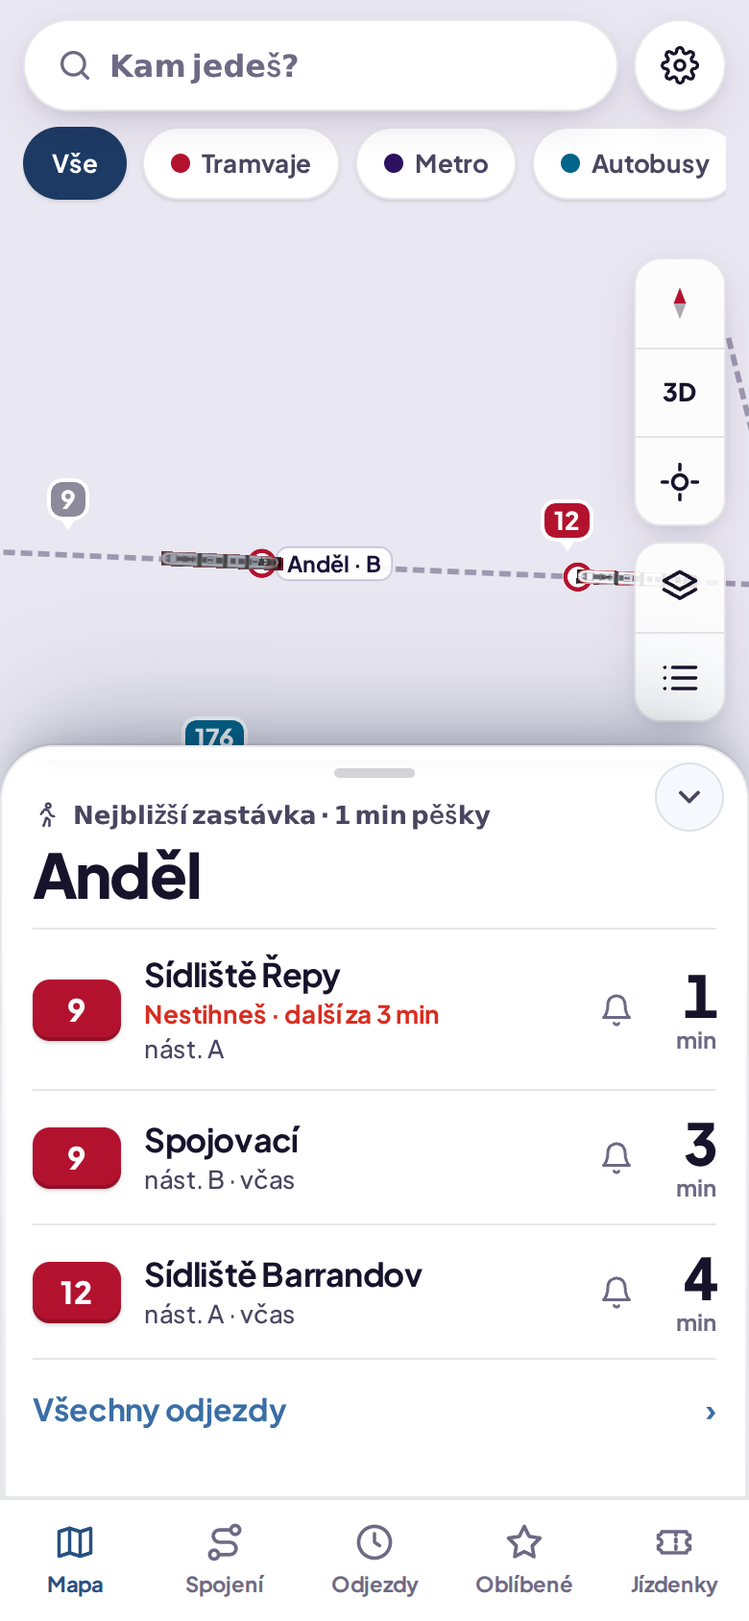
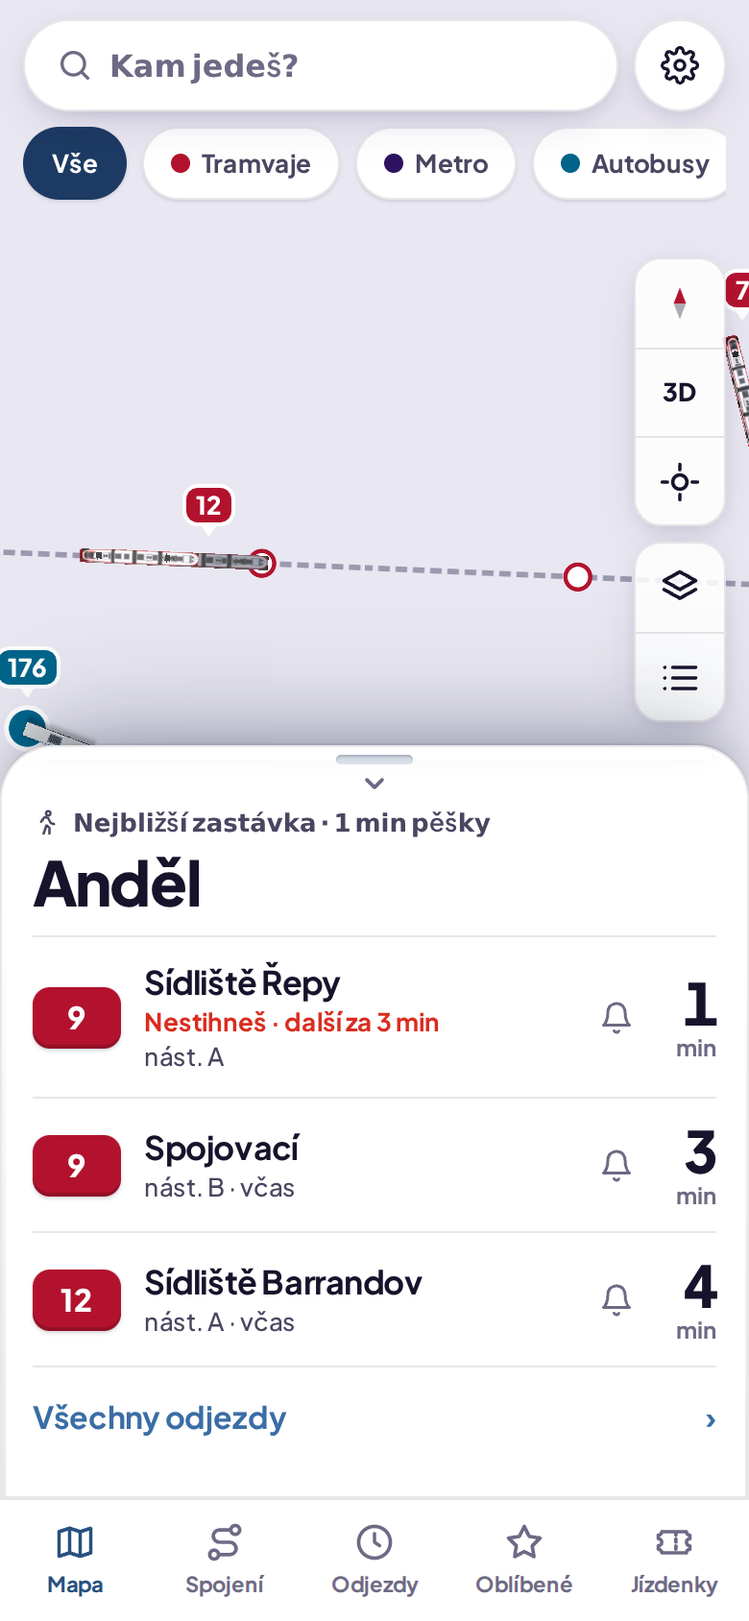
v0.11.0

diff --git a/src/server/push.ts b/src/server/push.ts
@@ -39,6 +39,7 @@ export const WatchInput = z.object({
   subscription: z.object({ endpoint: z.string().url().max(800), keys: z.object({ p256dh: b64u.min(80).max(120), auth: b64u.min(16).max(40) }) }),
   stop: z.string().min(1).max(80), stopName: z.string().min(1).max(80),
   line: z.string().regex(/^[A-Za-z0-9]{1,6}$/), headsign: z.string().max(80).nullable(),
+  mode: z.enum(['tram', 'metro', 'bus', 'trolleybus', 'train', 'ferry', 'funicular', 'other']).default('bus'),
   scheduledAt: z.string().datetime({ offset: true }), leadMin: z.union([z.literal(2), z.literal(5), z.literal(10)]),
   lang: z.enum(['cs', 'en']).default('cs'),
 });
@@ -81,25 +82,51 @@ export function verifyQstashSignature(jwt: string | null, rawBody: string, keys:
 }
 
 // ---------- texty upozornění ----------
-export function pushMessage(w: Watch, d: Departure | null, now: number, kind: 'arrival' | 'canceled'): { title: string; body: string; url: string; tag: string } {
+const EMOJI: Record<string, string> = { tram: '🚋', metro: '🚇', bus: '🚌', trolleybus: '🚎', train: '🚆', ferry: '⛴', funicular: '🚠', other: '🚏' };
+const clock = (ms: number) => new Intl.DateTimeFormat('cs-CZ', { timeZone: 'Europe/Prague', hour: '2-digit', minute: '2-digit' }).format(ms);
+export interface PushMessage { title: string; body: string; url: string; tag: string; actions: { action: string; title: string; url: string }[] }
+
+/**
+ * Upozornění: to hlavní v nadpisu (telefon ho zobrazí tučně) – druh dopravy, linka, za kolik minut, kam;
+ * 2. řádek kde, 3. řádek stav a co dělat. Zrušený spoj nabídne další spoj stejné linky.
+ */
+export function pushMessage(w: Watch, d: Departure | null, now: number, kind: 'arrival' | 'canceled', next: Departure | null = null): PushMessage {
   const en = w.lang === 'en';
-  const title = `${w.line} → ${w.headsign ?? w.stopName}`;
-  const url = `/odjezdy?zastavka=${encodeURIComponent(w.stop)}`;
-  if (kind === 'canceled') return { title, body: en ? `Cancelled — this ${w.line} won’t leave ${w.stopName}.` : `Spoj je zrušený – z ${w.stopName} nepojede.`, url, tag: `watch-${w.id}` };
+  const mode = d?.route.mode ?? w.mode ?? 'bus';
+  const emoji = EMOJI[mode] ?? EMOJI.other!;
+  const dest = w.headsign ?? w.stopName;
+  const deps = `/odjezdy?zastavka=${encodeURIComponent(w.stop)}`;
+  const line = `/linka?l=${encodeURIComponent(w.line)}&m=${encodeURIComponent(mode)}`;
+  const tag = `watch-${w.id}`;
+  if (kind === 'canceled') {
+    const at = clock(Date.parse(w.scheduledAt));
+    const nm = next ? Math.max(0, Math.round((Date.parse(next.predictedAt ?? next.scheduledAt ?? '') - now) / 60_000)) : null;
+    return {
+      title: en ? `❌ ${w.line} · ${dest} is cancelled` : `❌ ${w.line} · ${dest} nepojede`,
+      body: (en ? `The ${at} departure is cancelled.` : `Spoj v ${at} je zrušený.`) + (nm !== null ? (en ? `\n➡ Next ${w.line} in ${nm} min.` : `\n➡ Další ${w.line} jede za ${nm} min.`) : ''),
+      url: deps, tag, actions: [{ action: 'deps', title: en ? 'Next departure' : 'Ukázat další spoj', url: deps }],
+    };
+  }
   const dep = d ? Date.parse(d.predictedAt ?? d.scheduledAt ?? w.scheduledAt) : Date.parse(w.scheduledAt);
   const min = Math.max(0, Math.round((dep - now) / 60_000));
+  const when = min <= 0 ? (en ? 'now' : 'teď') : (en ? `in ${min} min` : `za ${min} min`);
+  const plat = d?.platform ? (en ? `, stop ${d.platform}` : `, nástupiště ${d.platform}`) : '';
   const late = d && d.delay.kind === 'known' && d.delay.seconds >= 60 ? Math.round(d.delay.seconds / 60) : 0;
-  const plat = d?.platform ? (en ? ` · stop ${d.platform}` : ` · nást. ${d.platform}`) : '';
-  const lead = en ? (min <= 0 ? `Leaves now from ${w.stopName}` : `Leaves in ${min} min from ${w.stopName}`) : (min <= 0 ? `Odjíždí teď z ${w.stopName}` : `Odjíždí za ${min} min z ${w.stopName}`);
-  const delay = late ? (en ? ` · ${late} min late` : ` · zpoždění ${late} min`) : '';
-  return { title, body: `${lead}${plat}${delay}`, url, tag: `watch-${w.id}` };
+  const status = late ? (en ? `⏱ ${late} min late` : `⏱ ${late} min zpoždění`) : d?.delay.kind === 'known' ? (en ? '✅ on time' : '✅ jede včas') : (en ? '🕒 per timetable' : '🕒 podle jízdního řádu');
+  const hurry = min <= 3 ? (en ? ' · 🏃 leave now' : ' · 🏃 vyraz hned') : '';
+  return {
+    title: `${emoji} ${w.line} · ${when} · ${dest}`,
+    body: `📍 ${w.stopName}${plat}\n${status}${hurry}`,
+    url: deps, tag,
+    actions: [{ action: 'line', title: en ? 'Where is it' : 'Kde je spoj', url: line }, { action: 'deps', title: en ? 'Departures' : 'Odjezdy', url: deps }],
+  };
 }
 
 // ---------- vlastní logika doručení (oddělená od sítě kvůli testům) ----------
 export interface FireDeps {
   load(id: string): Promise<Watch | null>; save(w: Watch, ttlS: number): Promise<void>; remove(id: string): Promise<void>;
   departures(stop: string): Promise<Departure[]>; publish(id: string, delayS: number): Promise<void>;
-  send(w: Watch, msg: ReturnType<typeof pushMessage>): Promise<'ok' | 'gone' | 'error'>; now(): number;
+  send(w: Watch, msg: PushMessage): Promise<'ok' | 'gone' | 'error'>; now(): number;
 }
 export async function fireWatch(id: string, deps: FireDeps): Promise<'missing' | 'rescheduled' | 'sent' | 'canceled' | 'gone' | 'expired'> {
   const w = await deps.load(id);
@@ -108,7 +135,9 @@ export async function fireWatch(id: string, deps: FireDeps): Promise<'missing' |
   const list = await deps.departures(w.stop).catch(() => [] as Departure[]);
   const d = list.find((x) => x.route.shortName === w.line && (!w.headsign || x.headsign === w.headsign) && Math.abs(Date.parse(x.scheduledAt ?? '') - sched) <= 120_000) ?? null;
   if (d?.isCanceled) {
-    const r = await deps.send(w, pushMessage(w, d, now, 'canceled'));
+    const next = list.filter((x) => x !== d && !x.isCanceled && x.route.shortName === w.line && (!w.headsign || x.headsign === w.headsign) && Date.parse(x.predictedAt ?? x.scheduledAt ?? '') > now)
+      .sort((a, b) => Date.parse(a.predictedAt ?? a.scheduledAt ?? '') - Date.parse(b.predictedAt ?? b.scheduledAt ?? ''))[0] ?? null;
+    const r = await deps.send(w, pushMessage(w, d, now, 'canceled', next));
     await deps.remove(id);
     return r === 'gone' ? 'gone' : 'canceled';
   }
@@ -155,7 +184,7 @@ export function qstash(cfg: PushConfig) {
 }
 export function sender(cfg: PushConfig) {
   webpush.setVapidDetails(cfg.subject, cfg.vapidPublic, cfg.vapidPrivate);
-  return async (w: Watch, msg: ReturnType<typeof pushMessage>): Promise<'ok' | 'gone' | 'error'> => {
+  return async (w: Watch, msg: PushMessage): Promise<'ok' | 'gone' | 'error'> => {
     if (!isAllowedPushEndpoint(w.subscription.endpoint)) return 'gone';
     try {
       await webpush.sendNotification(w.subscription, JSON.stringify(msg), { TTL: 600, urgency: 'high', topic: msg.tag.slice(0, 32).replace(/[^A-Za-z0-9_-]/g, '') });

diff --git a/src/components/AppShell.tsx b/src/components/AppShell.tsx
@@ -9,6 +9,7 @@ import { useMediaQuery, useNow } from '@/lib/hooks';
 import { hydrateFavorites } from '@/lib/favorites';
 import { initInstall } from '@/lib/install';
 import { initOnboarding } from '@/lib/onboarding';
+import { playTramBell, unlockAudio } from '@/lib/sound';
 import Onboarding from './Onboarding';
 import { hydrateSettings, prefersReducedMotion, settingsStore } from '@/lib/settings';
 import { IconClock, IconMap, IconRoute, IconSearch, IconSettings, IconStar, IconTicket } from './icons';
@@ -56,6 +57,20 @@ export default function AppShell({ children, styleUrl, demo }: { children: React
     hydrateFavorites();
     initInstall();
     initOnboarding();
+    // zvuk smí hrát až po interakci: odemknout prvním dotykem
+    const unlock = () => { unlockAudio(); window.removeEventListener('pointerdown', unlock); };
+    window.addEventListener('pointerdown', unlock);
+    // upozornění na spoj přišlo, když je aplikace otevřená → tramvajový zvonek
+    const onMsg = (e: MessageEvent) => { if ((e.data as { type?: string } | null)?.type === 'dopravacr-alert') playTramBell(); };
+    navigator.serviceWorker?.addEventListener('message', onMsg);
+    // iPhone v režimu aplikace s průhledným stavovým řádkem hlásí výšku okna menší o stavový řádek → dorovnat
+    const fixVh = () => {
+      const ios = /iphone|ipad|ipod/i.test(navigator.userAgent) && (navigator as Navigator & { standalone?: boolean }).standalone === true;
+      const gap = ios ? Math.round(window.screen.height - window.innerHeight) : 0;
+      document.documentElement.style.setProperty('--ios-gap', `${gap > 0 && gap < 90 && window.innerWidth < window.innerHeight ? gap : 0}px`);
+    };
+    fixVh();
+    window.addEventListener('resize', fixVh);
     const apply = () => { document.documentElement.dataset.motion = prefersReducedMotion(settingsStore.get()) ? 'reduce' : 'full'; };
     apply();
     const unsub = settingsStore.subscribe(apply);
@@ -81,7 +96,8 @@ export default function AppShell({ children, styleUrl, demo }: { children: React
     const vh = window.innerHeight;
     const snaps = [COLLAPSED, PEEK, Math.round(vh * 0.52), vh - 150];
     // klepnutí: schovaný → náhled → půl → zpět náhled
-    if (moved < 6) { setSheetH((h) => (h <= COLLAPSED + 10 ? PEEK : h <= PEEK + 10 ? snaps[2]! : PEEK)); return; }
+    // klepnutí na úchyt: schovaný → vysunout, jinak schovat (šipka ukazuje směr)
+    if (moved < 6) { setSheetH((h) => (h <= COLLAPSED + 10 ? PEEK : COLLAPSED)); return; }
     setSheetH((h) => snaps.reduce((a, b) => (Math.abs(b - h) < Math.abs(a - h) ? b : a)));
   };
 
@@ -133,15 +149,15 @@ export default function AppShell({ children, styleUrl, demo }: { children: React
       <main id="main" ref={sheetRef} data-collapsed={sheetMode && sheetH <= COLLAPSED + 10 ? 'true' : undefined} className={`panel ${sheetMode ? 'sheet-host' : 'page-host'}`} aria-label={isMapRoute ? t('panelMap') : t('panelContent')} tabIndex={-1}
         onFocus={(e) => { if (sheetMode && (e.target as HTMLElement).tagName === 'INPUT') setSheetH(Math.round(window.innerHeight - 150)); }}>
         {sheetMode && (
-          <button type="button" className="sheet-handle" aria-label={sheetH > PEEK + 10 ? t('sheetCollapse') : t('sheetExpand')} onPointerDown={onPointerDown} onPointerMove={onPointerMove} onPointerUp={onPointerUp} onPointerCancel={onPointerUp}>
-            <span />
+          <button type="button" className={`sheet-handle${sheetH <= COLLAPSED + 10 ? ' up' : ''}`} aria-expanded={sheetH > COLLAPSED + 10}
+            aria-label={sheetH <= COLLAPSED + 10 ? t('sheetExpand') : t('sheetHide')}
+            onPointerDown={onPointerDown} onPointerMove={onPointerMove} onPointerUp={onPointerUp} onPointerCancel={onPointerUp}>
+            <span className="grip" />
+            <svg className="chev" width="16" height="16" viewBox="0 0 24 24" aria-hidden><path d="M6 9l6 6 6-6" fill="none" stroke="currentColor" strokeWidth="2.8" strokeLinecap="round" strokeLinejoin="round" /></svg>
           </button>
         )}
-        {sheetMode && (
-          <button type="button" className={`sheet-toggle${sheetH <= COLLAPSED + 10 ? ' up' : ''}`} aria-expanded={sheetH > COLLAPSED + 10}
-            aria-label={sheetH <= COLLAPSED + 10 ? t('sheetExpand') : t('sheetHide')} onClick={() => setSheetH((h) => (h <= COLLAPSED + 10 ? PEEK : COLLAPSED))}>
-            <svg width="18" height="18" viewBox="0 0 24 24" aria-hidden><path d="M6 9l6 6 6-6" fill="none" stroke="currentColor" strokeWidth="2.6" strokeLinecap="round" strokeLinejoin="round" /></svg>
-          </button>
+        {!sheetMode && !isMapRoute && (
+          <TLink href="/" className="panel-close" aria-label={t('closeToMap')}><svg width="18" height="18" viewBox="0 0 24 24" aria-hidden><path d="M6 6l12 12M18 6L6 18" stroke="currentColor" strokeWidth="2.4" strokeLinecap="round" /></svg></TLink>
         )}
         <div className="panel-scroll">{panelContent}</div>
       </main>

diff --git a/public/sw.js b/public/sw.js
@@ -1,5 +1,5 @@
 /* Doprava – service worker: offline obal aplikace a poslední data s jasně označeným stářím. */
-const VERSION = 'doprava-v10';
+const VERSION = 'doprava-v11';
 const SHELL = `${VERSION}-shell`, STATIC = `${VERSION}-static`, API = `${VERSION}-api`;
 const SHELL_URLS = ['/', '/odjezdy', '/spojeni', '/oblibene', '/jizdenky', '/nastaveni', '/map/offline-style.json', '/icons/icon-192.png', '/brand/logo.png', '/brand/logo-dark.png', '/favicon.ico'];
 const STATIC_PREFIXES = ['/_next/static/', '/vehicles/', '/icons/', '/map/', '/maplibre/'];
@@ -61,18 +61,27 @@ async function navigate(req) {
 }
 
 // ---------- upozornění na blížící se spoj (Web Push) ----------
+const safeUrl = (u) => (typeof u === 'string' && u.startsWith('/') && !u.startsWith('//') ? u : '/');
 self.addEventListener('push', (event) => {
-  let msg = { title: 'DopravaČR', body: '', url: '/', tag: 'dopravacr' };
+  let msg = { title: 'DopravaČR', body: '', url: '/', tag: 'dopravacr', actions: [] };
   try { if (event.data) msg = { ...msg, ...event.data.json() }; } catch { /* prostý text */ }
-  const url = typeof msg.url === 'string' && msg.url.startsWith('/') ? msg.url : '/';
-  event.waitUntil(self.registration.showNotification(String(msg.title).slice(0, 80), {
-    body: String(msg.body).slice(0, 200), tag: String(msg.tag).slice(0, 64), renotify: true, requireInteraction: false,
-    icon: '/icons/icon-192.png', badge: '/icons/favicon-32.png', data: { url }, vibrate: [120, 60, 120],
-  }));
+  const actions = (Array.isArray(msg.actions) ? msg.actions : []).slice(0, 2).map((a) => ({ action: String(a.action).slice(0, 16), title: String(a.title).slice(0, 30) }));
+  const urls = { _: safeUrl(msg.url) };
+  for (const a of Array.isArray(msg.actions) ? msg.actions.slice(0, 2) : []) urls[String(a.action).slice(0, 16)] = safeUrl(a.url);
+  event.waitUntil((async () => {
+    await self.registration.showNotification(String(msg.title).slice(0, 90), {
+      body: String(msg.body).slice(0, 240), tag: String(msg.tag).slice(0, 64), renotify: true, requireInteraction: false, timestamp: Date.now(),
+      icon: '/icons/icon-192.png', badge: '/icons/favicon-32.png', data: { urls }, actions, vibrate: [90, 70, 90, 70, 160],
+    });
+    // otevřená aplikace zahraje tramvajový zvonek a ukáže upozornění i v sobě
+    const all = await self.clients.matchAll({ type: 'window', includeUncontrolled: true });
+    for (const c of all) c.postMessage({ type: 'dopravacr-alert', title: String(msg.title).slice(0, 90), body: String(msg.body).slice(0, 240), url: urls._ });
+  })());
 });
 self.addEventListener('notificationclick', (event) => {
   event.notification.close();
-  const url = new URL((event.notification.data && event.notification.data.url) || '/', self.location.origin).href;
+  const urls = (event.notification.data && event.notification.data.urls) || {};
+  const url = new URL(safeUrl(urls[event.action] || urls._ || '/'), self.location.origin).href;
   event.waitUntil((async () => {
     const all = await self.clients.matchAll({ type: 'window', includeUncontrolled: true });
     for (const c of all) { if (new URL(c.url).origin === self.location.origin) { await c.focus(); if ('navigate' in c) await c.navigate(url); return; } }

diff --git a/src/styles/globals.css b/src/styles/globals.css
@@ -508,3 +508,32 @@ input, select, textarea { touch-action: manipulation; }
 .watch-pop button:hover { background: var(--primary-50); color: var(--primary-700); }
 .watch-msg { position: absolute; z-index: 30; right: 0; top: 44px; width: max-content; max-width: 240px; padding: 8px 12px; border-radius: 12px; background: #0F2341; color: #fff; font-size: 13px; line-height: 18px; font-weight: 600; box-shadow: 0 12px 28px rgba(15,35,65,.3); animation: pop 260ms cubic-bezier(.22,1.4,.36,1); }
 @media (prefers-reduced-motion: reduce) { .watch-btn.on, .watch-pop, .watch-msg { animation: none; } }
+
+/* ---------- úchyt panelu se šipkou (nahrazuje samostatné tlačítko – nic se nepřekrývá) ---------- */
+.sheet-toggle { display: none !important; }
+@media (max-width: 899px) {
+  .sheet-handle { height: 30px; display: flex !important; flex-direction: column; align-items: center; justify-content: center; gap: 2px; color: var(--ink-3); }
+  .sheet-handle .grip { width: 40px; height: 5px; border-radius: 3px; background: linear-gradient(180deg, #C9D2DE, #DCE3EC); box-shadow: inset 0 1px 1px rgba(11,18,32,.18); }
+  .sheet-handle .chev { transition: transform 380ms cubic-bezier(.22, 1.4, .36, 1), color 200ms ease; }
+  .sheet-handle.up .chev { transform: rotate(180deg); color: var(--primary-600); }
+  .sheet-handle:hover .chev { color: var(--primary-600); }
+  .sheet-handle span:not(.grip) { display: none; }
+}
+/* ---------- křížek „zpět na mapu“ u každé obrazovky ---------- */
+.panel-close { position: absolute; z-index: 5; top: 12px; right: 12px; width: 40px; height: 40px; border-radius: 20px; display: grid; place-items: center; color: var(--ink-2);
+  background: var(--surface-solid); box-shadow: 0 0 0 1px var(--line), 0 4px 12px rgba(15,35,65,.10); transition: transform 200ms cubic-bezier(.22,1.5,.36,1), background 200ms ease, color 200ms ease; }
+.panel-close:hover { background: var(--primary-50); color: var(--primary-700); transform: rotate(90deg); }
+.panel-close:active { transform: scale(.92); }
+.page-host .panel-scroll > h1:first-child, .page-host .panel-scroll > :first-child h1 { padding-right: 48px; }
+.watch-pop-head { display: flex; align-items: center; justify-content: space-between; gap: 8px; }
+.watch-x { width: 28px; height: 28px; border-radius: 14px; border: 0; background: var(--surface-2, #F4F6F9); color: var(--ink-2); font-size: 18px; line-height: 1; cursor: pointer; }
+.watch-x:hover { background: var(--primary-50); color: var(--primary-700); }
+.ob-x { margin-left: 6px; font-size: 16px; font-weight: 800; }
+/* ---------- iPhone: bez prázdného pruhu pod lištou ---------- */
+.app { bottom: calc(-1 * var(--ios-gap, 0px)); }
+
+.field { position: relative; }
+.search-clear { position: absolute; right: 8px; bottom: 7px; width: 34px; height: 34px; border-radius: 17px; border: 0; background: var(--surface-2, #F1F4F9); color: var(--ink-2); font-size: 20px; line-height: 1; cursor: pointer; display: grid; place-items: center; transition: background 160ms ease, color 160ms ease, transform 160ms ease; }
+.search-clear:hover { background: var(--primary-50); color: var(--primary-700); }
+.search-clear:active { transform: scale(.9); }
+.field .input { padding-right: 48px; }

diff --git a/tests/unit/push.test.ts b/tests/unit/push.test.ts
@@ -40,7 +40,7 @@ describe('upozornění: bezpečnost', () => {
 describe('upozornění: chytré doručení', () => {
   const T0 = Date.parse('2026-10-03T10:00:00+02:00');
   const w = (over: Partial<Watch> = {}): Watch => ({ id: '00000000-0000-4000-8000-000000000001', tokenHash: 'x', createdAt: '', reschedules: 0, subscription: { endpoint: 'https://fcm.googleapis.com/x', keys: { p256dh: 'p', auth: 'a' } },
-    stop: 'pid:Anděl', stopName: 'Anděl', line: '9', headsign: 'Spojovací', scheduledAt: new Date(T0).toISOString(), leadMin: 5, lang: 'cs', ...over });
+    stop: 'pid:Anděl', stopName: 'Anděl', line: '9', headsign: 'Spojovací', scheduledAt: new Date(T0).toISOString(), leadMin: 5, lang: 'cs', mode: 'tram', ...over }) as Watch;
   const dep = (delayS: number, canceled = false): Departure => ({ route: { shortName: '9', mode: 'tram' }, headsign: 'Spojovací', scheduledAt: new Date(T0).toISOString(), predictedAt: new Date(T0 + delayS * 1000).toISOString(),
     delay: knownDelay(delayS), platform: 'A', isCanceled: canceled } as unknown as Departure);
   const deps = (watch: Watch | null, list: Departure[], now: number) => {
@@ -52,7 +52,7 @@ describe('upozornění: chytré doručení', () => {
   it('včas: 5 min před odjezdem pošle upozornění a hlídání smaže', async () => {
     const { d, log } = deps(w(), [dep(0)], T0 - 5 * 60_000);
     expect(await fireWatch('id', d)).toBe('sent');
-    expect(log).toEqual(['send:Odjíždí za 5 min z Anděl · nást. A', 'remove']);
+    expect(log).toEqual(['send:📍 Anděl, nástupiště A\n✅ jede včas', 'remove']);
   });
   it('zpoždění 4 min: přeplánuje se přesně na nový čas (žádné předčasné upozornění)', async () => {
     const { d, log } = deps(w(), [dep(240)], T0 - 5 * 60_000);
@@ -65,10 +65,11 @@ describe('upozornění: chytré doručení', () => {
     expect(a.log[0]).toContain('zrušený');
     expect(await fireWatch('id', deps(null, [], T0).d)).toBe('missing');
   });
-  it('anglický text s nástupištěm a zpožděním', () => {
+  it('anglický text: smajlík druhu dopravy, tučný nadpis s minutami, řádek kde a řádek stavu; tlačítka', () => {
     const m = pushMessage(w({ lang: 'en' }), dep(120), T0 - 3 * 60_000, 'arrival');
-    expect(m.title).toBe('9 → Spojovací');
-    expect(m.body).toBe('Leaves in 5 min from Anděl · stop A · 2 min late');
+    expect(m.title).toBe('🚋 9 · in 5 min · Spojovací');
+    expect(m.body).toBe('📍 Anděl, stop A\n⏱ 2 min late');
+    expect(m.actions.map((x) => x.action)).toEqual(['line', 'deps']);
     expect(m.url).toBe('/odjezdy?zastavka=pid%3AAnd%C4%9Bl');
   });
 });

diff --git a/src/i18n/messages/uk.ts b/src/i18n/messages/uk.ts
@@ -6,7 +6,7 @@ const L = 'uk';
 export const uk: Messages = {
   appName: 'DopravaČR', appTagline: 'знайди своє сполучення будь-коли й будь-де', skip: 'Перейти до вмісту', brandAria: 'DopravaČR – мапа', navMain: 'Головна навігація',
   nav_map: 'Мапа', nav_plan: 'Маршрути', nav_departures: 'Відправлення', nav_favorites: 'Обране', nav_tickets: 'Квитки', nav_settings: 'Налаштування',
-  mapRegion: 'Мапа транспорту', panelMap: 'Панель мапи', panelContent: 'Вміст', sheetCollapse: 'Згорнути панель', sheetExpand: 'Розгорнути панель', sheetHide: 'Сховати панель',
+  mapRegion: 'Мапа транспорту', panelMap: 'Панель мапи', panelContent: 'Вміст', sheetCollapse: 'Згорнути панель', sheetExpand: 'Розгорнути панель', close: 'Close', closeToMap: 'Закрити й повернутися до мапи', sheetHide: 'Сховати панель',
   vehicleDetail: 'Деталі транспортного засобу', stopDetail: 'Деталі зупинки', searchPrompt: 'Куди вам потрібно?',
   all: 'Усі', retry: 'Спробувати знову', refresh: 'Оновити', loading: 'Завантаження…', yes: 'так', no: 'ні', notStated: 'не вказано',
   min: 'хв', now: 'зараз', atStop: 'на зупинці', inMin: 'за {n} хв', direction: 'напрямок {h}', platform: 'Платформа {p}', platformShort: 'пл. {p}', platformUnknown: 'Платформу не вказано', canceled: 'Скасовано',

diff --git a/src/i18n/messages/ar.ts b/src/i18n/messages/ar.ts
@@ -6,7 +6,7 @@ const L = 'ar';
 export const ar: Messages = {
   appName: 'DopravaČR', appTagline: 'اعثر على رحلتك في أي وقت ومن أي مكان', skip: 'تخطَّ إلى المحتوى', brandAria: 'DopravaČR – الخريطة', navMain: 'التنقل الرئيسي',
   nav_map: 'الخريطة', nav_plan: 'الرحلات', nav_departures: 'المغادرات', nav_favorites: 'المفضلة', nav_tickets: 'التذاكر', nav_settings: 'الإعدادات',
-  mapRegion: 'خريطة المواصلات', panelMap: 'لوحة الخريطة', panelContent: 'المحتوى', sheetCollapse: 'طيّ اللوحة', sheetExpand: 'توسيع اللوحة', sheetHide: 'إخفاء اللوحة',
+  mapRegion: 'خريطة المواصلات', panelMap: 'لوحة الخريطة', panelContent: 'المحتوى', sheetCollapse: 'طيّ اللوحة', sheetExpand: 'توسيع اللوحة', close: 'Close', closeToMap: 'إغلاق والعودة إلى الخريطة', sheetHide: 'إخفاء اللوحة',
   vehicleDetail: 'تفاصيل المركبة', stopDetail: 'تفاصيل المحطة', searchPrompt: 'إلى أين تريد الذهاب؟',
   all: 'الكل', retry: 'إعادة المحاولة', refresh: 'تحديث', loading: 'جارٍ التحميل…', yes: 'نعم', no: 'لا', notStated: 'غير محدد',
   min: 'د', now: 'الآن', atStop: 'في المحطة', inMin: 'بعد {n} د', direction: 'باتجاه {h}', platform: 'الرصيف {p}', platformShort: 'رصيف {p}', platformUnknown: 'الرصيف غير محدد', canceled: 'ملغاة',

diff --git a/src/lib/sound.ts b/src/lib/sound.ts
@@ -1,0 +1,32 @@
+'use client';
+/**
+ * Tramvajový zvonek (dvojí „cink“) syntetizovaný ve Web Audio – bez zvukového souboru.
+ * Prohlížeče pustí zvuk až po interakci uživatele: kontext se odemkne prvním klepnutím.
+ */
+let ctx: AudioContext | null = null;
+function audio(): AudioContext | null {
+  if (typeof window === 'undefined') return null;
+  const AC = window.AudioContext ?? (window as unknown as { webkitAudioContext?: typeof AudioContext }).webkitAudioContext;
+  if (!AC) return null;
+  ctx = ctx ?? new AC();
+  return ctx;
+}
+export function unlockAudio() {
+  const c = audio();
+  if (c && c.state === 'suspended') void c.resume();
+}
+function tone(c: AudioContext, f: number, t0: number, d: number, gain: number) {
+  const o = c.createOscillator(), g = c.createGain();
+  o.type = 'sine'; o.frequency.value = f;
+  const t = c.currentTime + t0;
+  g.gain.setValueAtTime(0, t); g.gain.linearRampToValueAtTime(gain, t + 0.008); g.gain.exponentialRampToValueAtTime(0.0001, t + d);
+  o.connect(g).connect(c.destination); o.start(t); o.stop(t + d + 0.05);
+}
+/** Kovový úder: základní tón a dva neharmonické alikvoty jako u skutečného zvonku. */
+function strike(c: AudioContext, t0: number) { [1, 2.76, 5.4].forEach((m, i) => tone(c, 1180 * m, t0, 1.1 - i * 0.25, 0.22 / (i + 1))); }
+export function playTramBell() {
+  const c = audio();
+  if (!c) return;
+  if (c.state === 'suspended') void c.resume();
+  strike(c, 0); strike(c, 0.28);
+}

diff --git a/src/i18n/messages/de.ts b/src/i18n/messages/de.ts
@@ -6,7 +6,7 @@ const L = 'de';
 export const de: Messages = {
   appName: 'DopravaČR', appTagline: 'finde deine Verbindung – jederzeit, überall', skip: 'Zum Inhalt springen', brandAria: 'DopravaČR – Karte', navMain: 'Hauptnavigation',
   nav_map: 'Karte', nav_plan: 'Verbindungen', nav_departures: 'Abfahrten', nav_favorites: 'Favoriten', nav_tickets: 'Fahrkarten', nav_settings: 'Einstellungen',
-  mapRegion: 'Verkehrskarte', panelMap: 'Kartenleiste', panelContent: 'Inhalt', sheetCollapse: 'Leiste einklappen', sheetExpand: 'Leiste ausklappen', sheetHide: 'Bereich ausblenden',
+  mapRegion: 'Verkehrskarte', panelMap: 'Kartenleiste', panelContent: 'Inhalt', sheetCollapse: 'Leiste einklappen', sheetExpand: 'Leiste ausklappen', close: 'Close', closeToMap: 'Schließen, zurück zur Karte', sheetHide: 'Bereich ausblenden',
   vehicleDetail: 'Fahrzeugdetails', stopDetail: 'Haltestellendetails', searchPrompt: 'Wohin möchten Sie?',
   all: 'Alle', retry: 'Erneut versuchen', refresh: 'Aktualisieren', loading: 'Wird geladen…', yes: 'ja', no: 'nein', notStated: 'nicht angegeben',
   min: 'Min.', now: 'jetzt', atStop: 'an der Haltestelle', inMin: 'in {n} Min.', direction: 'Richtung {h}', platform: 'Bahnsteig {p}', platformShort: 'Bstg. {p}', platformUnknown: 'Bahnsteig nicht angegeben', canceled: 'Fällt aus',

diff --git a/src/i18n/messages/it.ts b/src/i18n/messages/it.ts
@@ -6,7 +6,7 @@ const L = 'it';
 export const it: Messages = {
   appName: 'DopravaČR', appTagline: 'trova il tuo collegamento, sempre e ovunque', skip: 'Vai al contenuto', brandAria: 'DopravaČR – mappa', navMain: 'Navigazione principale',
   nav_map: 'Mappa', nav_plan: 'Percorsi', nav_departures: 'Partenze', nav_favorites: 'Preferiti', nav_tickets: 'Biglietti', nav_settings: 'Impostazioni',
-  mapRegion: 'Mappa dei trasporti', panelMap: 'Pannello mappa', panelContent: 'Contenuto', sheetCollapse: 'Comprimi pannello', sheetExpand: 'Espandi pannello', sheetHide: 'Nascondi pannello',
+  mapRegion: 'Mappa dei trasporti', panelMap: 'Pannello mappa', panelContent: 'Contenuto', sheetCollapse: 'Comprimi pannello', sheetExpand: 'Espandi pannello', close: 'Close', closeToMap: 'Chiudi e torna alla mappa', sheetHide: 'Nascondi pannello',
   vehicleDetail: 'Dettagli veicolo', stopDetail: 'Dettagli fermata', searchPrompt: 'Dove vuoi andare?',
   all: 'Tutti', retry: 'Riprova', refresh: 'Aggiorna', loading: 'Caricamento…', yes: 'sì', no: 'no', notStated: 'non indicato',
   min: 'min', now: 'ora', atStop: 'in fermata', inMin: 'tra {n} min', direction: 'direzione {h}', platform: 'Banchina {p}', platformShort: 'banch. {p}', platformUnknown: 'Banchina non indicata', canceled: 'Soppresso',

diff --git a/src/i18n/messages/es.ts b/src/i18n/messages/es.ts
@@ -6,7 +6,7 @@ const L = 'es';
 export const es: Messages = {
   appName: 'DopravaČR', appTagline: 'encuentra tu conexión, cuando y donde quieras', skip: 'Saltar al contenido', brandAria: 'DopravaČR – mapa', navMain: 'Navegación principal',
   nav_map: 'Mapa', nav_plan: 'Rutas', nav_departures: 'Salidas', nav_favorites: 'Favoritos', nav_tickets: 'Billetes', nav_settings: 'Ajustes',
-  mapRegion: 'Mapa de transporte', panelMap: 'Panel del mapa', panelContent: 'Contenido', sheetCollapse: 'Contraer panel', sheetExpand: 'Expandir panel', sheetHide: 'Ocultar panel',
+  mapRegion: 'Mapa de transporte', panelMap: 'Panel del mapa', panelContent: 'Contenido', sheetCollapse: 'Contraer panel', sheetExpand: 'Expandir panel', close: 'Close', closeToMap: 'Cerrar y volver al mapa', sheetHide: 'Ocultar panel',
   vehicleDetail: 'Detalle del vehículo', stopDetail: 'Detalle de la parada', searchPrompt: '¿Adónde quieres ir?',
   all: 'Todo', retry: 'Reintentar', refresh: 'Actualizar', loading: 'Cargando…', yes: 'sí', no: 'no', notStated: 'no indicado',
   min: 'min', now: 'ahora', atStop: 'en la parada', inMin: 'en {n} min', direction: 'dirección {h}', platform: 'Andén {p}', platformShort: 'and. {p}', platformUnknown: 'Andén no indicado', canceled: 'Cancelado',

diff --git a/src/i18n/messages/cs.ts b/src/i18n/messages/cs.ts
@@ -7,7 +7,7 @@ const L = 'cs';
 export const cs = {
   appName: 'DopravaČR', appTagline: 'najdi si spoj, kdykoliv, kdekoliv', skip: 'Přeskočit na obsah', brandAria: 'DopravaČR – mapa', navMain: 'Hlavní navigace',
   nav_map: 'Mapa', nav_plan: 'Spojení', nav_departures: 'Odjezdy', nav_favorites: 'Oblíbené', nav_tickets: 'Jízdenky', nav_settings: 'Nastavení',
-  mapRegion: 'Mapa dopravy', panelMap: 'Panel mapy', panelContent: 'Obsah', sheetCollapse: 'Sbalit panel', sheetExpand: 'Rozbalit panel', sheetHide: 'Schovat panel',
+  mapRegion: 'Mapa dopravy', panelMap: 'Panel mapy', panelContent: 'Obsah', sheetCollapse: 'Sbalit panel', sheetExpand: 'Rozbalit panel', close: 'Zavřít', closeToMap: 'Zavřít a zpět na mapu', sheetHide: 'Schovat panel',
   vehicleDetail: 'Detail vozidla', stopDetail: 'Detail zastávky', searchPrompt: 'Kam jedeš?',
   all: 'Vše', retry: 'Zkusit znovu', refresh: 'Obnovit', loading: 'Načítání…', yes: 'ano', no: 'ne', notStated: 'neuvedeno',
   min: 'min', now: 'teď', atStop: 'v zastávce', inMin: 'za {n} min', direction: 'směr {h}', platform: 'Nástupiště {p}', platformShort: 'nást. {p}', platformUnknown: 'Nástupiště neuvedeno', canceled: 'Zrušeno',
